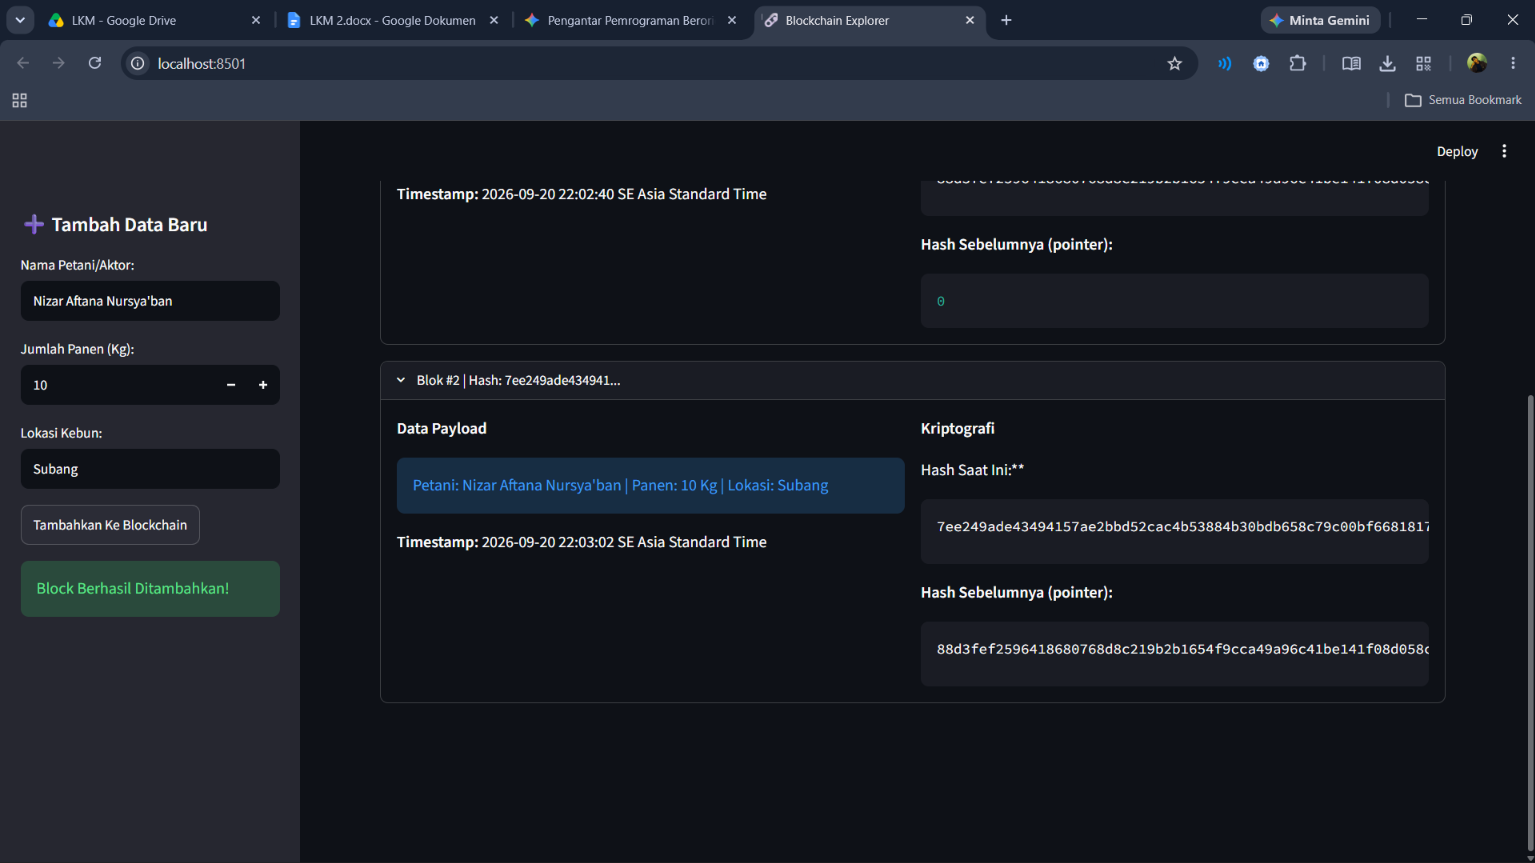
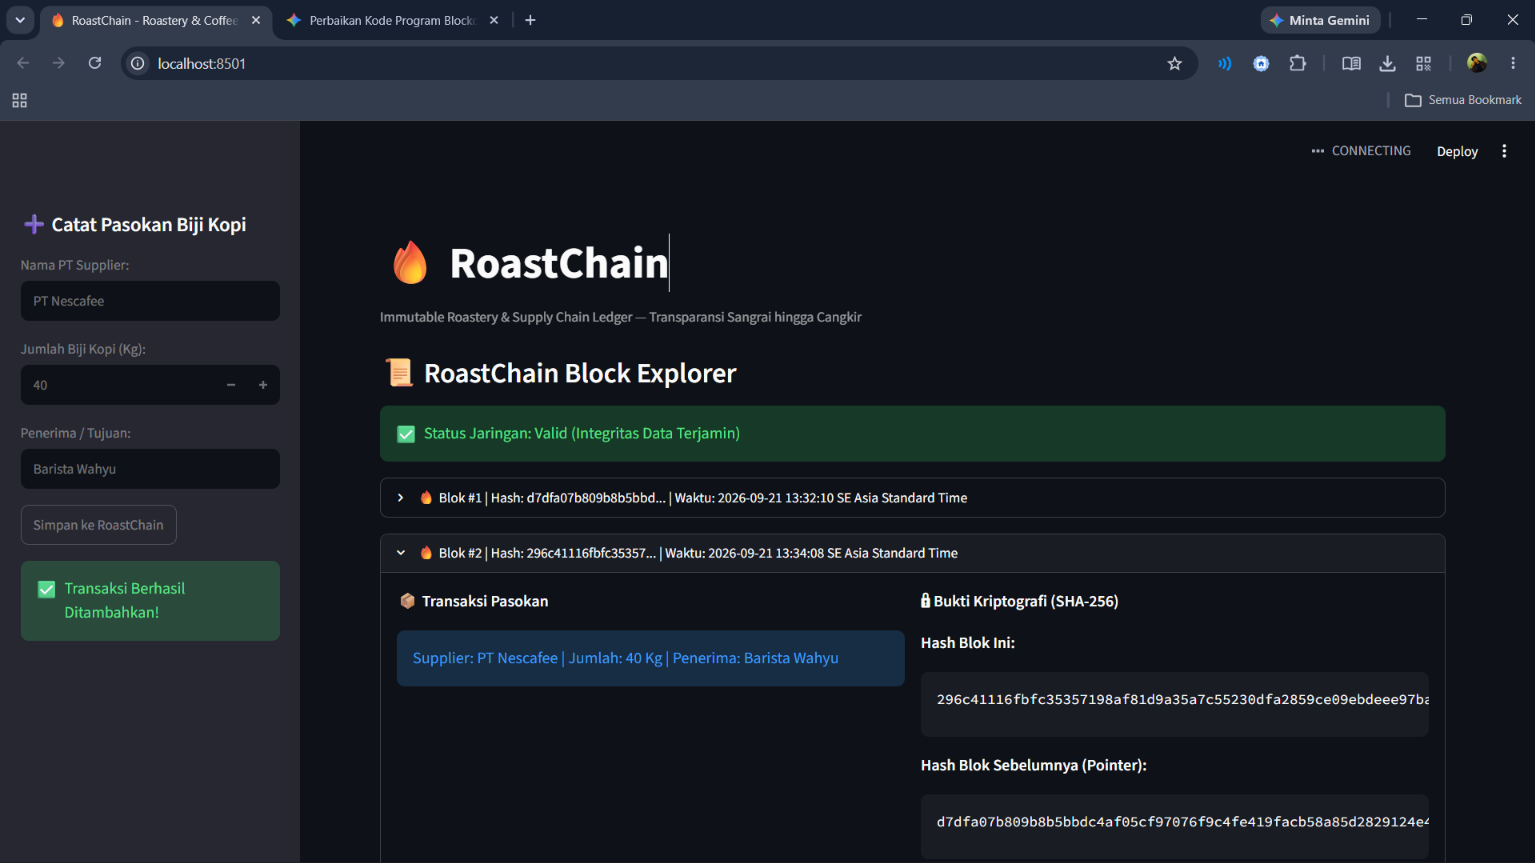
Add files via upload

diff --git a/laporan_proyek_roastchain.md b/laporan_proyek_roastchain.md
@@ -1,0 +1,120 @@
+# 📜 Laporan Proyek: RoastChain — Immutable Roastery & Coffee Supply Chain Ledger
+
+---
+
+## 📌 1. Ringkasan Eksekutif
+
+**RoastChain** adalah aplikasi berbasis Python dan Streamlit yang mengimplementasikan teknologi *Blockchain* sederhana untuk mencatat dan memantau rantai pasok (supply chain) kopi, mulai dari pemasok (*supplier*) hingga roastery atau penerima akhir.
+
+Dengan memanfaatkan algoritma kriptografi **SHA-256**, RoastChain memastikan bahwa setiap catatan transaksi bersifat tak terubah (*immutable*), transparan, dan dapat diverifikasi keabsahannya secara langsung (*real-time verification*).
+
+---
+
+## 🛠 2. Arsitektur & Teknologi
+
+Proyek ini terbagi menjadi dua komponen utama:
+1. **`core.py` (Logika Blockchain)**: Mengatur struktur data blok, penghitungan hash, dan validasi keterkaitan antar-blok.
+2. **`app.py` (Antarmuka Pengguna / User Interface)**: Dibangun menggunakan **Streamlit** untuk memfasilitasi entri data transaksi dan visualisasi *Block Explorer*.
+
+### Tech Stack:
+- **Bahasa Pemrograman**: Python 3.x
+- **Framework UI**: Streamlit
+- **Modul Standar Python**: `hashlib`, `time`, `datetime`
+- **Algoritma Hashing**: SHA-256
+
+---
+
+## 🧱 3. Pembahasan Kode Utama
+
+### A. Struktur Data Kriptografi (`core.py`)
+
+#### 1. Kelas `Block`
+Setiap blok menyimpan informasi esensial:
+- `index`: Urutan posisi blok dalam rantai.
+- `timestamp`: Waktu pembuatan blok dalam format Unix timestamp.
+- `data`: Muatan/informasi transaksi yang dicatat.
+- `previous_hash`: Hash unik dari blok sebelum dirinya (penghubung rantai).
+- `hash`: Hasil kalkulasi SHA-256 dari seluruh isi atribut blok.
+
+```python
+def calculate_hash(self):
+    block_string = (
+        str(self.index)
+        + str(self.timestamp)
+        + str(self.data)
+        + str(self.previous_hash)
+    )
+    return hashlib.sha256(block_string.encode()).hexdigest()
+```
+
+#### 2. Kelas `Blockchain`
+Mengelola seluruh rantai (*ledger*) dan fungsi pengujian integritas data:
+- **Genesis Block**: Blok pertama yang diinisialisasi secara otomatis saat sistem pertama kali dijalankan.
+- **Validasi Rantai (`is_chain_valid`)**: Melakukan dua tahap pemeriksaan keamanan:
+  1. Memverifikasi apakah isi data suatu blok telah dimodifikasi (membandingkan `hash` simpanan dengan rekalkulasi `calculate_hash()`).
+  2. Memverifikasi apakah keterkaitan `previous_hash` sesuai dengan `hash` blok sebelumnya.
+
+---
+
+### B. Antarmuka Web Interaktif (`app.py`)
+
+#### 1. Manajemen Sesi State (`st.session_state`)
+Agar instance blockchain tidak ter-reset setiap kali pengguna berinteraksi dengan UI Streamlit, ledger disimpan ke dalam session state:
+```python
+if 'roastchain_ledger' not in st.session_state:
+    st.session_state.roastchain_ledger = Blockchain()
+```
+
+#### 2. Form Input Pasokan Biji Kopi (Sidebar)
+Memungkinkan pengguna memasukkan:
+- Nama PT Supplier (pemasok)
+- Jumlah Biji Kopi (dalam Kg)
+- Nama Penerima / Tujuan
+
+Data tersebut dikemas menjadi string payload terformat dan ditambahkan ke blockchain melalui metode `add_block()`.
+
+#### 3. Block Explorer & Monitoring Integritas
+- Display status validitas jaringan secara *live* (`st.success` jika valid, `st.error` jika ada perusakan data).
+- Menampilkan rincian blok dalam bentuk *collapsible card* (`st.expander`), menampilkan payload transaksi serta potongan kode SHA-256 (`hash` dan `previous_hash`).
+
+---
+
+## 💡 4. Alur Kerja Aplikasi (Workflow)
+
+```
+[ Pengguna Mengisi Form ] 
+         │
+         ▼
+[ Format Payload: "Supplier: X | Jumlah: Y Kg | Penerima: Z" ]
+         │
+         ▼
+[ Buat Blok Baru: Hitung Timestamp & SHA-256 ]
+         │
+         ▼
+[ Hubungkan `previous_hash` dengan Hash Blok Terakhir ]
+         │
+         ▼
+[ Tambahkan ke session_state.roastchain_ledger ]
+         │
+         ▼
+[ Validasi Ulang Seluruh Rantai (is_chain_valid) ]
+         │
+         ▼
+[ Tampilkan pada Block Explorer UI ]
+```
+
+---
+
+## 🚀 5. Rencana Pengembangan Lengkap (Future Roadmap)
+
+1. **Persistensi Data**: Mengintegrasikan database (misal: PostgreSQL atau MongoDB) agar data blockchain tersimpan secara permanen saat aplikasi di-restart.
+2. **Proof-of-Work (PoW) / Consensus**: Menambahkan mekanisme konsensus/mining sederhana untuk mensimulasikan blockchain terdistribusi secara nyata.
+3. **Multi-Role User**: Fitur otentikasi login untuk Petani, Roaster, dan Distributor agar riwayat pasokan memiliki tanda tangan digital (*digital signature*).
+4. **QR Code Generator**: Menghasilkan QR Code untuk setiap batch kopi agar konsumen akhir dapat memindai dan melihat riwayat asal-usul kopi (*Farm-to-Cup Transparency*).
+
+---
+
+## 📄 6. Kesimpulan
+Proyek **RoastChain** berhasil mensimulasikan penggunaan teknologi blockchain pada industri kopi roastery. Aplikasi ini membuktikan bahwa transparansi data dan perlindungan dari manipulasi transaksi dapat dicapai dengan memanfaatkan kombinasi algoritma enkripsi SHA-256 dan antarmuka web modern berbasi Streamlit.
+
+![alt text](image.png)
